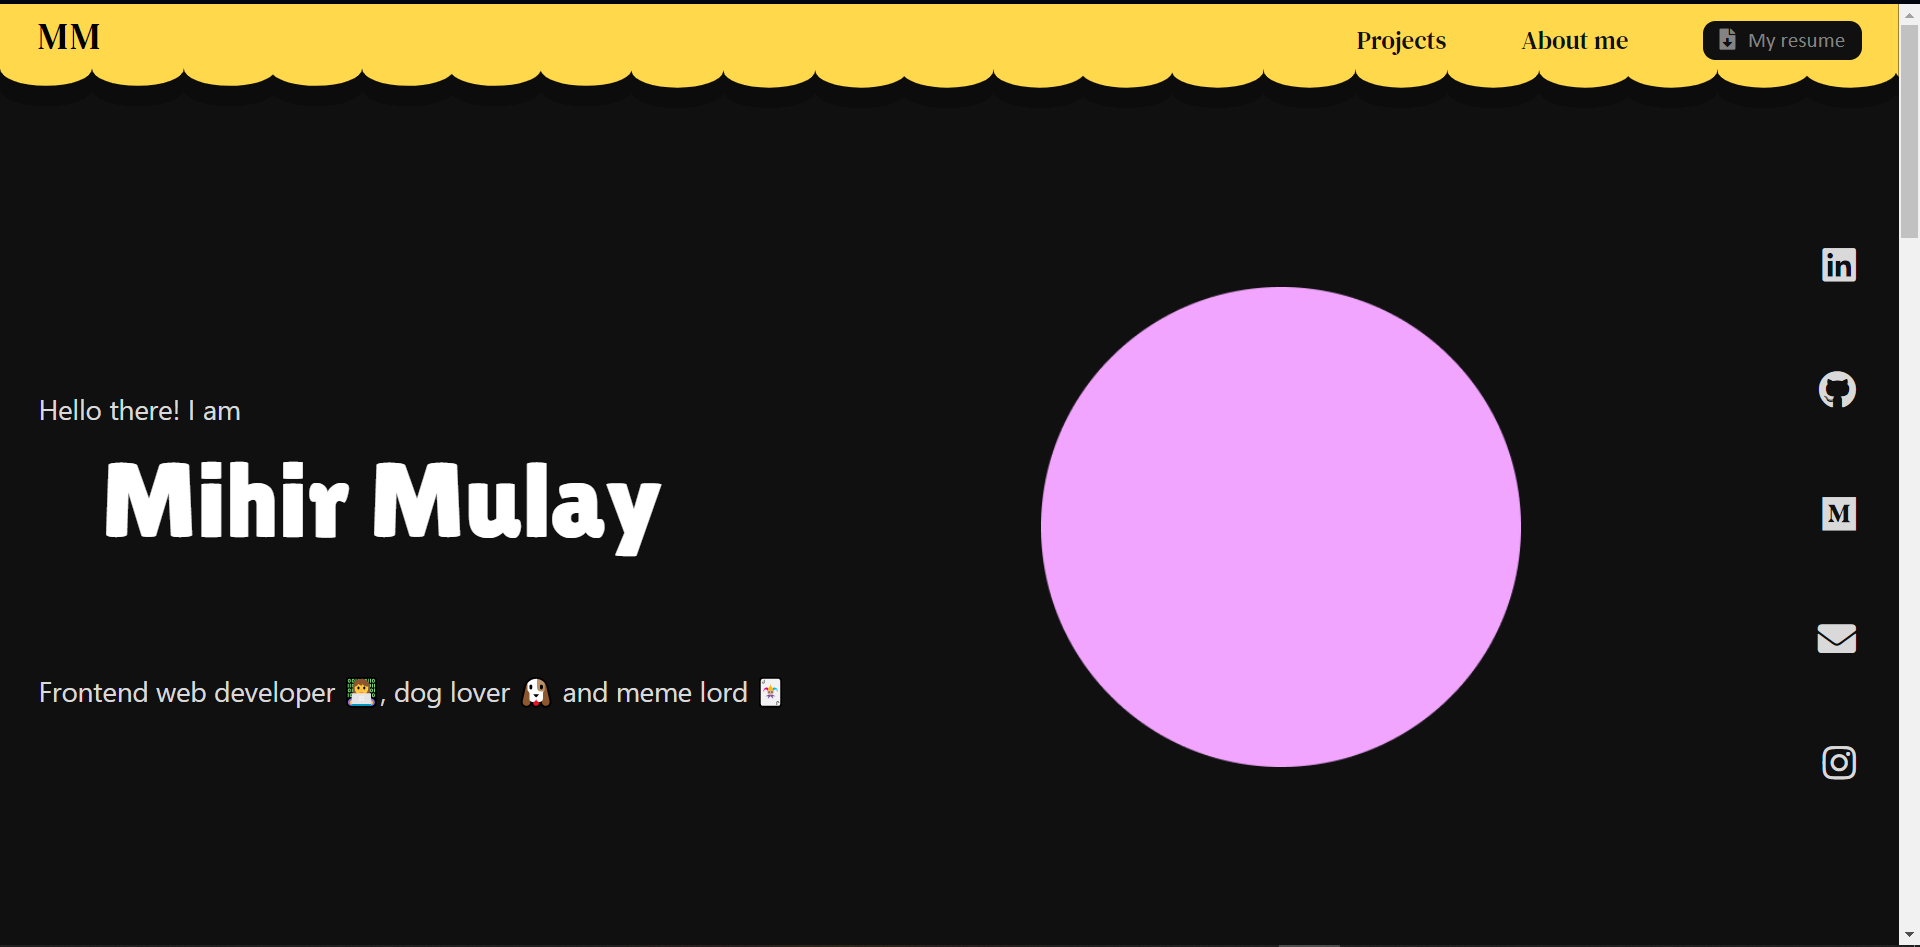
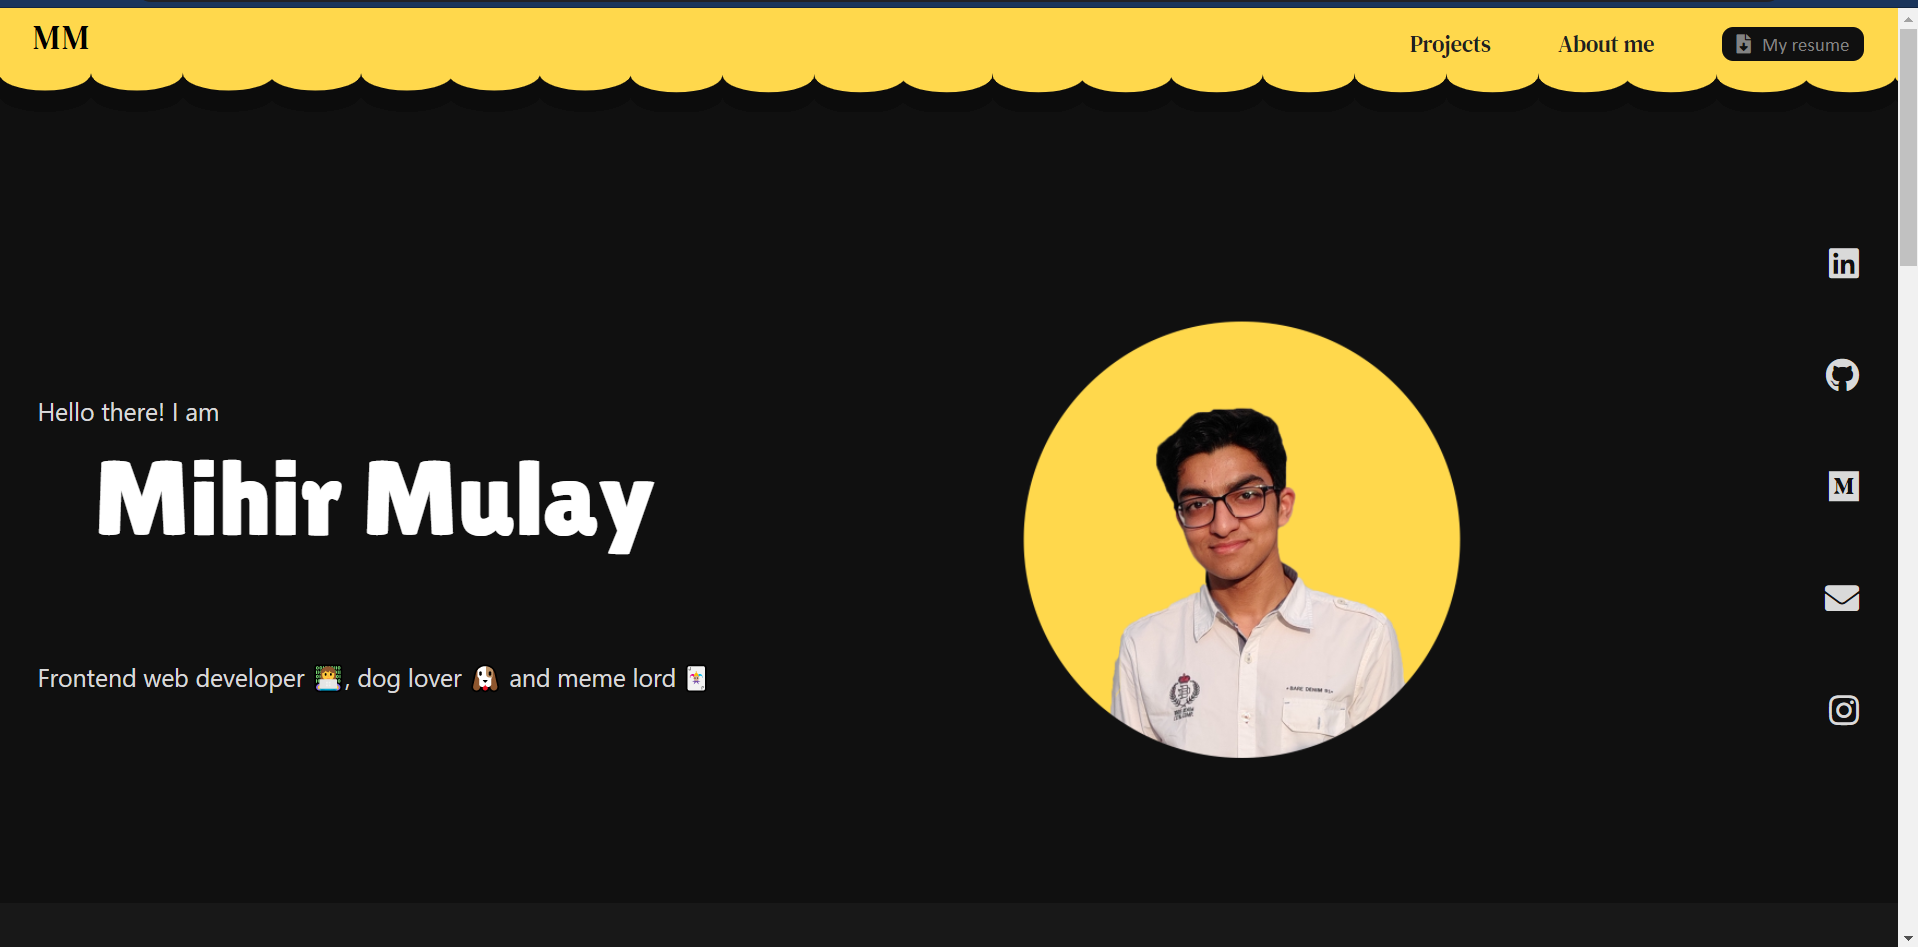
fixed all images and bitmojis. worked on making the about me page better and responsive

diff --git a/src/styles/aboutmepage.module.css b/src/styles/aboutmepage.module.css
@@ -1,5 +1,6 @@
 .section {
   height: 100%;
+  overflow-x: hidden;
 }
 .title {
   text-align: center;
@@ -9,10 +10,6 @@
   margin: 3vh 0 8vh 0;
 }
 
-.desc > div > p {
-  font-family: "Cantarell", sans-serif;
-  font-size: 19px;
-}
 .academics {
   margin: 8vh 0;
   height: 100%;
@@ -80,40 +77,30 @@
   background-color: #191919;
   border-color: #191919;
 }
+.desc {
+  width: 50%;
+  height: 100%;
+  padding: 5vh 4vw;
+  margin: 10vh auto;
+  background-color: #191919;
+  position: relative;
+  border-radius: 20px;
+  text-align: center;
+}
+.desc > img {
+  position: absolute;
+  border-radius: 25px;
+}
+.desc > p {
+  font-family: "Cantarell", sans-serif;
+  font-size: 22px;
+  margin: 5vh 0;
+}
 @media screen and (min-width: 786px) {
-  .desc {
-    position: relative;
-    width: 100%;
-    height: 80vh;
-    overflow: hidden;
-  }
-  .desc > div {
-    padding: 10vh 3vw;
-    border-radius: 15px;
-    width: 28%;
-  }
   .card img {
     height: 120px;
     width: 120px;
     margin: 5vh 0;
-  }
-  .card1 {
-    position: absolute;
-    top: 0;
-    left: -10px;
-    background-color: #181818;
-  }
-  .card2 {
-    position: absolute;
-    top: 25%;
-    right: -10px;
-    background-color: #181818;
-  }
-  .card3 {
-    position: absolute;
-    bottom: 0;
-    left: 20%;
-    background-color: #181818;
   }
   .desktop {
     display: block;
@@ -121,26 +108,39 @@
   .mobile {
     display: none;
   }
+  .vacation1 {
+    width: 170px;
+    height: 170px;
+    top: -10%;
+    left: -30%;
+  }
+  .vacation2 {
+    width: 120px;
+    height: 120px;
+    top: 60%;
+    left: -15%;
+  }
+  .hmu {
+    width: 100px;
+    height: 100px;
+    top: -10%;
+    right: -5%;
+  }
+  .reading {
+    width: 180px;
+    height: 180px;
+    top: 30%;
+    right: -40%;
+  }
+  .movies {
+    width: 130px;
+    height: 130px;
+    top: 80%;
+    right: -10%;
+  }
 }
 
 @media screen and (max-width: 786px) {
-  .desc {
-    height: 100%;
-  }
-  .desc > div {
-    position: relative;
-    width: 100%;
-    margin: 4vh 0;
-    height: 60vh;
-    background-color: #191919;
-  }
-  .desc > div > p {
-    padding: 10vw;
-    position: absolute;
-    bottom: 0;
-    left: 0;
-    text-align: center;
-  }
   .desktop {
     display: none;
   }
@@ -171,5 +171,41 @@
   }
   .info > a > button {
     margin-top: 0;
+  }
+  .desc {
+    width: 80%;
+  }
+  .desc > p {
+    font-size: 19px;
+  }
+  .desc > img {
+    border-radius: 10px;
+  }
+  .vacation1 {
+    width: 70px;
+    height: 70px;
+    top: -10%;
+    left: 10%;
+  }
+  .vacation2 {
+    display: none;
+  }
+  .hmu {
+    width: 100px;
+    height: 100px;
+    top: -10%;
+    right: -5%;
+  }
+  .reading {
+    width: 60px;
+    height: 60px;
+    top: 85%;
+    right: -5%;
+  }
+  .movies {
+    width: 100px;
+    height: 100px;
+    top: 90%;
+    left: 5%;
   }
 }

diff --git a/src/sections/AboutmePage.js b/src/sections/AboutmePage.js
@@ -4,29 +4,17 @@ import Footer from '../components/Footer'
 import stcicon from '../assets/mainpicture.png'
 import ymicon from '../assets/mainpicture.png'
 import Resume from '../assets/Resume.pdf'
+import vacation1 from '../assets/vacation1img.jpeg'
+import vacation2 from '../assets/vacation2img.jpeg'
+import moviesimg from '../assets/moviesimg.jpeg'
+import hmu from '../assets/hmuimg.jpeg'
+import reading from '../assets/readingimg.jpeg'
+
 
 export default function AboutmePage() {
     return (
         <div id="aboutme" className={styles.section}>
             <div className={styles.title}>About me</div>
-            <div className={styles.desc}>
-                <div className={styles.card1}>
-                    <p>
-                        I love to travel to new places, eat different food and meet new people.
-                    </p>
-                </div>
-                <div className={styles.card2}>
-                    <p>
-                         I enjoy playing basketball, reading books and watching movies on netflix.
-                    </p>
-                </div>
-                <div className={styles.card3}>
-                    <p>
-                        I am a really outgoing person and love working with people on new and exciting projects.
-                    </p>
-                </div>
-            </div>
-                <hr className={styles.separator} />
             <div className={styles.academics + ' ' + styles.desktop}>
                 <div className={`${styles.card} ${styles.stccard}`}>
                     <h3>Student Technical Community</h3>
@@ -97,6 +85,23 @@ export default function AboutmePage() {
                         </button>
                     </a>
                 </div>
+            </div>
+                <hr className={styles.separator} />
+            <div className={styles.desc}>
+                <img className={styles.vacation1} src={vacation1} alt="vacation" />
+                <img className={styles.vacation2} src={vacation2} alt="vacation" />
+                <img className={styles.hmu} src={hmu} alt="vacation" />
+                <img className={styles.reading} src={reading} alt="vacation" />
+                <img className={styles.movies} src={moviesimg} alt="vacation" />
+                <p>
+                    I love to travel to new places, eat different food and meet new people.
+                </p>
+                <p>
+                        I enjoy playing basketball, reading books and watching movies on netflix.
+                </p>
+                <p>
+                    I am a really outgoing person and love working with people on new and exciting projects.
+                </p>
             </div>
             <Footer />
         </div>

diff --git a/src/styles/footer.module.css b/src/styles/footer.module.css
@@ -1,9 +1,9 @@
 .section {
-  height: 20vh;
-  background-size: cover;
+  height: 30vh;
   background-repeat: no-repeat;
+  background-size: cover;
   color: #101010;
-  padding: 7vh 10vw;
+  padding: 5vh 10vw;
   position: relative;
 }
 .section > div {
@@ -11,7 +11,7 @@
 }
 .section div div i {
   margin-right: 10px;
-  font-size: 20px;
+  font-size: 22px;
 }
 .credits {
   position: absolute;
@@ -25,23 +25,24 @@
 }
 .credits i {
   color: red;
-  font-size: 14px;
+  font-size: 16px;
   margin: 0 5px;
 }
 .info div {
-  margin: 2vh 0;
+  margin: 3vh 0;
   font-size: 15px;
 }
 .links {
   display: flex;
   justify-content: center;
   flex-direction: column;
+  margin-top: 5vh !important;
 }
-.links div {
+.links > div {
   display: flex;
   justify-content: space-around;
   flex-direction: row;
-  margin: 1vh 0;
+  margin: 2vh 0;
 }
 @media screen and (min-width: 786px) {
   .section {

diff --git a/src/sections/LandingPage.js b/src/sections/LandingPage.js
@@ -1,7 +1,7 @@
 import React from 'react'
 import Navbar from '../components/Navbar'
 import styles from '../styles/landingpage.module.css'
-import mainpicture from '../assets/mainpicture.png'
+import mypicture from '../assets/MyPicture.png'
 
 const copytoclipboard = async (event) =>{
     event.preventDefault();
@@ -32,7 +32,7 @@ export default function LandingPage() {
                     <p>Frontend web developer 👩💻, dog lover 🐶 and meme lord 🃏</p>
                 </div>
                 <div className={styles.mypic}>
-                    <img src= {mainpicture} alt="my pic here"/>
+                    <img src= {mypicture} alt="my pic here"/>
                 </div>
                 <div className={styles.links}>
                     <a className={styles.linkedin} href="https://www.linkedin.com/in/mihirmulay00/" target="_blank" rel="noreferrer noopener">

diff --git a/src/components/Card.js b/src/components/Card.js
@@ -2,11 +2,13 @@ import React from 'react'
 import styles from '../styles/card.module.css'
 import PortfolioWebsite from '../assets/PortfolioWebsiteScreenshot.png'
 import WeatherForecast from '../assets/WeatherForecastScreenshot.png'
+import EcommerceWebsite from '../assets/EcommerceWebsiteScreenshot.png'
 
 function choosescreenshot(img){
     switch(img){
         case 'PortfolioWebsite' : return PortfolioWebsite;
         case 'WeatherForecast' : return WeatherForecast;
+        case 'EcommerceWebsite' : return EcommerceWebsite;
         default: return 'https://source.unsplash.com/random'
     }
 }

diff --git a/src/styles/projectspage.module.css b/src/styles/projectspage.module.css
@@ -1,6 +1,6 @@
 .section {
   height: 100%;
-  background-color: #141414;
+  background-color: #181818;
   padding: 5vh 3vh;
 }
 
@@ -24,16 +24,15 @@
   display: none;
 }
 .github {
-  background-color: #ffd84c;
-  color: #101010;
-  padding: 8px 10px;
+  background-color: #2a2a2a;
+  color: #dedede;
+  padding: 13px 13px;
   border-radius: 20px;
-  font-size: 16px;
+  font-size: 15px;
 }
 .github i {
   margin-right: 10px;
   font-size: 18px;
-  color: black;
 }
 @media screen and (max-width: 768px) {
   .section {

diff --git a/src/data/index.js b/src/data/index.js
@@ -9,7 +9,7 @@ const data = {
         {
             "title" : "E-commerce Website",
             "desc" : "A elegant, easy to use E-commerce website. Allows user to browse through a list of items and add them to a cart. and One of my hardest projects so far. Built using React and  Material UI.",
-            "img" : "https://source.unsplash.com/random",
+            "img" : "EcommerceWebsite",
             "url" : "https://www.google.com",
         },
         {

diff --git a/src/styles/landingpage.module.css b/src/styles/landingpage.module.css
@@ -1,5 +1,5 @@
 .section {
-  height: auto;
+  height: 90vh;
   padding-bottom: 5vh;
 }
 .container {
@@ -121,7 +121,7 @@
     left: 0;
     width: 100%;
     justify-content: space-around;
-    padding: 1vh 1vw;
+    padding: 3vh 1vw;
   }
   .links a {
     margin: 0;

diff --git a/src/index.css b/src/index.css
@@ -1,3 +1,6 @@
+html {
+  scroll-behavior: smooth;
+}
 body {
   margin: 0;
   font-family: -apple-system, BlinkMacSystemFont, "Segoe UI", "Roboto", "Oxygen",
